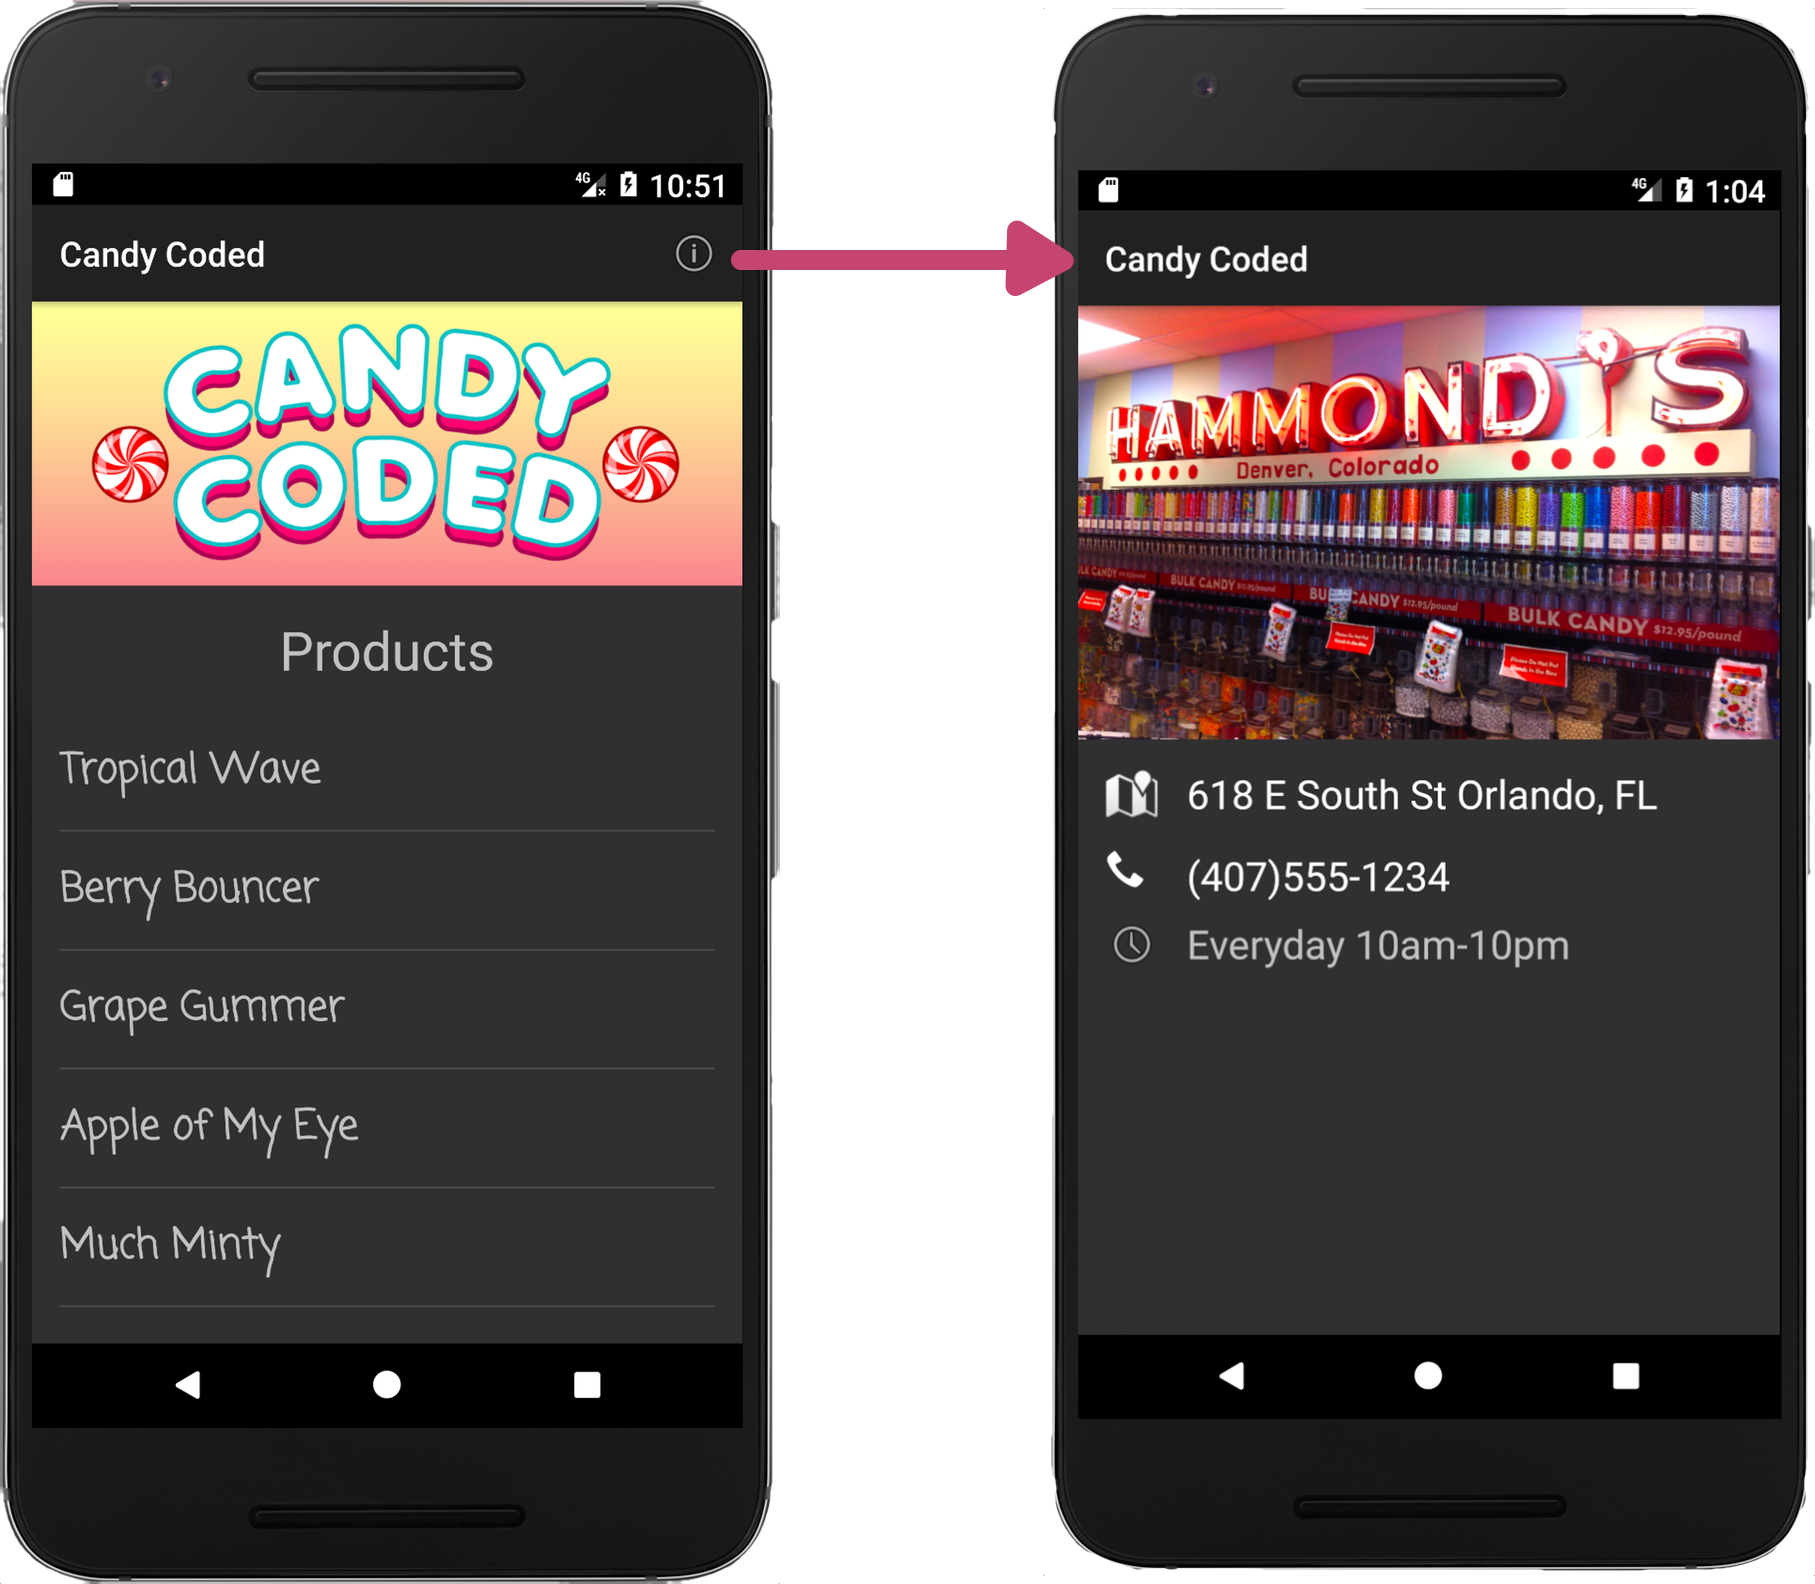
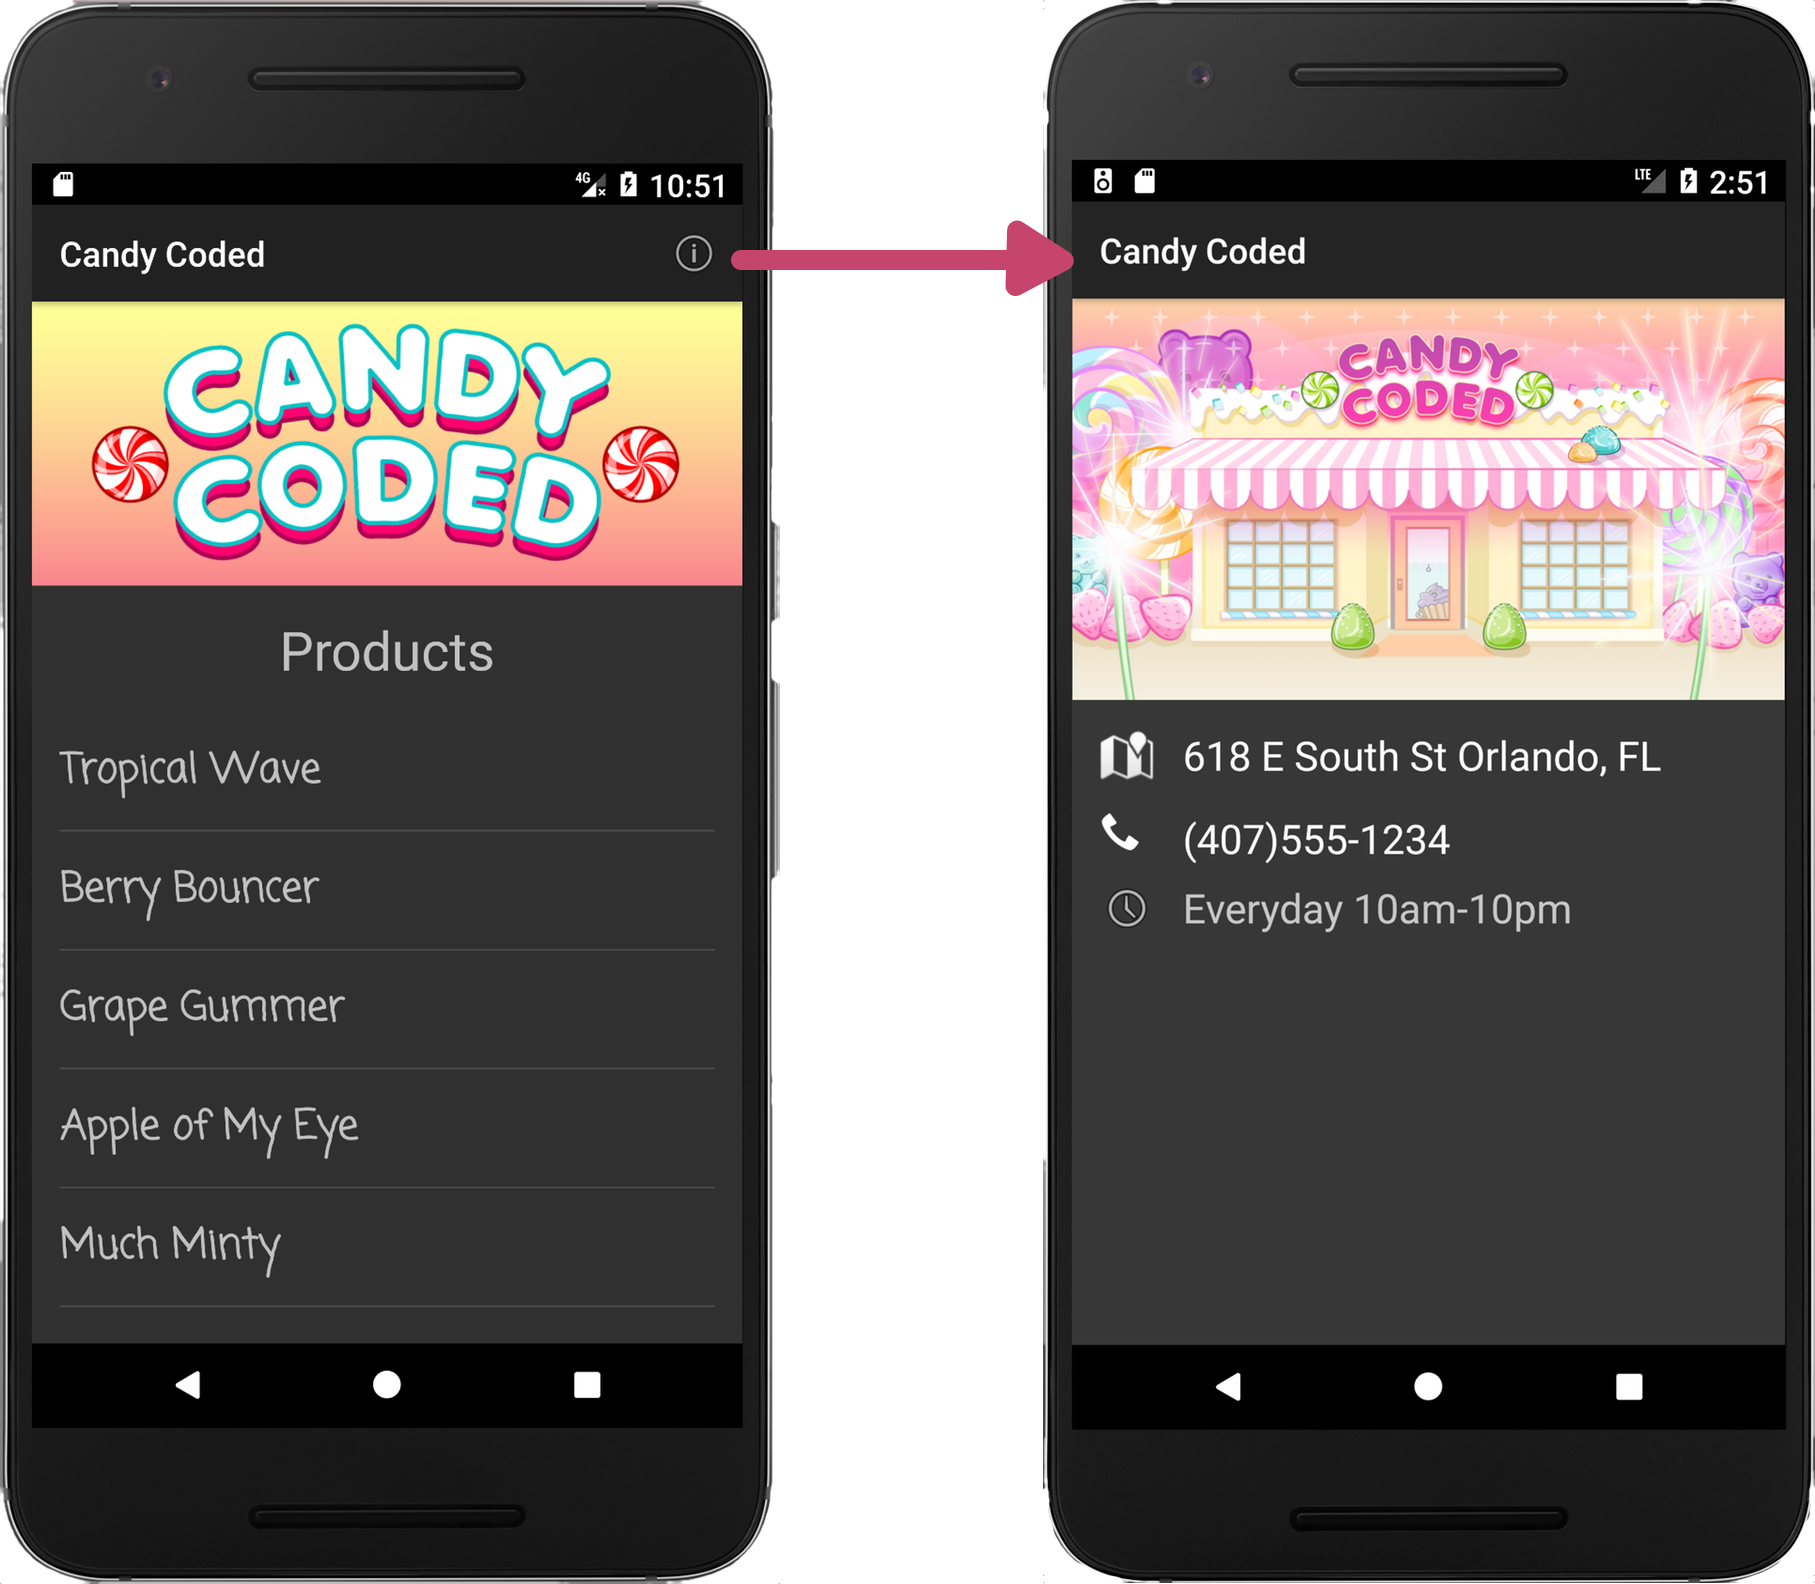
Updated the store front image in the project and in screen shots.

Changed region(s): [[0.5554, 0.0309, 1.0, 1.0], [0.5862, 0.0, 0.9873, 0.0619]]

diff --git a/CandyCoded/app/src/main/java/com/codeschool/candycoded/InfoActivity.java b/CandyCoded/app/src/main/java/com/codeschool/candycoded/InfoActivity.java
@@ -16,9 +16,10 @@ public class InfoActivity extends AppCompatActivity {
         super.onCreate(savedInstanceState);
         setContentView(R.layout.activity_info);
 
+        Uri uri = Uri.parse("android.resource://com.codeschool.candycoded/" + R.drawable.store_front);
         ImageView candyStoreImageView = (ImageView)findViewById(R.id.image_view_candy_store);
         Picasso.with(this).
-                load("https://thecavenderdiary.files.wordpress.com/2013/07/hammonds-vintage-sign-over-the-candy.jpg").
+                load(uri).
                 into(candyStoreImageView);
 
 
